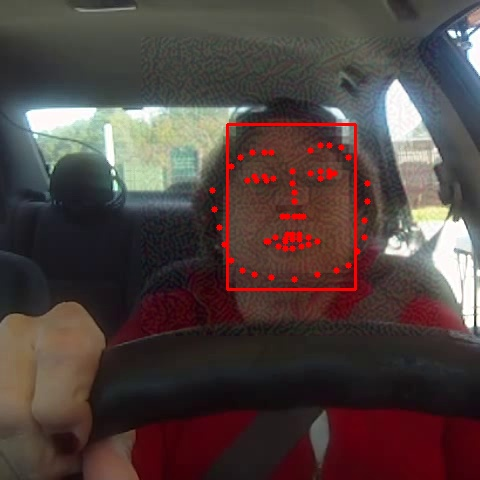
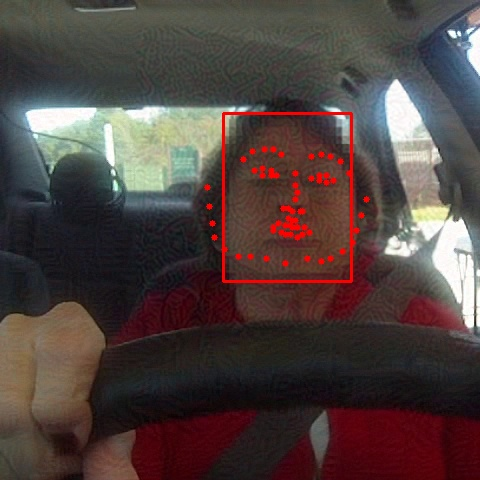
fix little bug, update new results

Changed region(s): [[0.4062, 0.2188, 0.7812, 0.625]]

diff --git a/attack/attacker/lm_attacker.py b/attack/attacker/lm_attacker.py
@@ -71,7 +71,7 @@ class LandmarkAttacker(Attacker):
 
         # Postprocess, return adversarial images
         adv_res = victim.postprocess(
-            images, adv_res, 
+            deid_images, adv_res, 
             old_boxes, new_boxes, old_shapes)
 
         return adv_res
